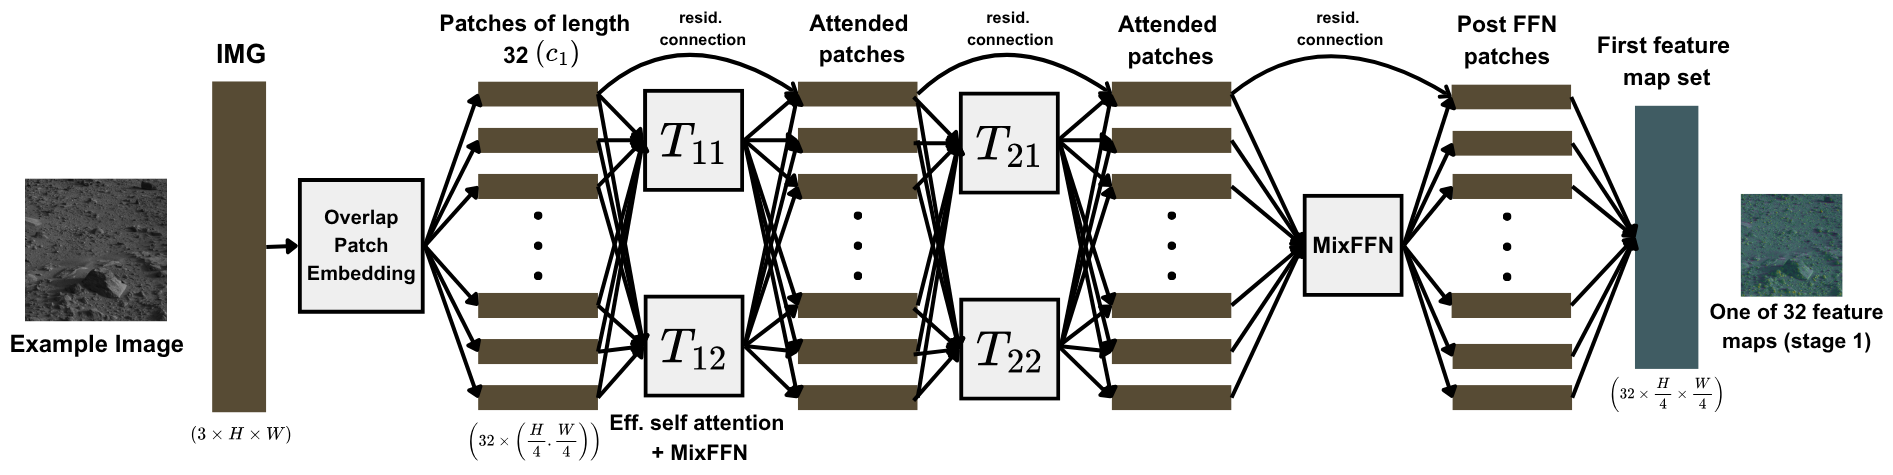
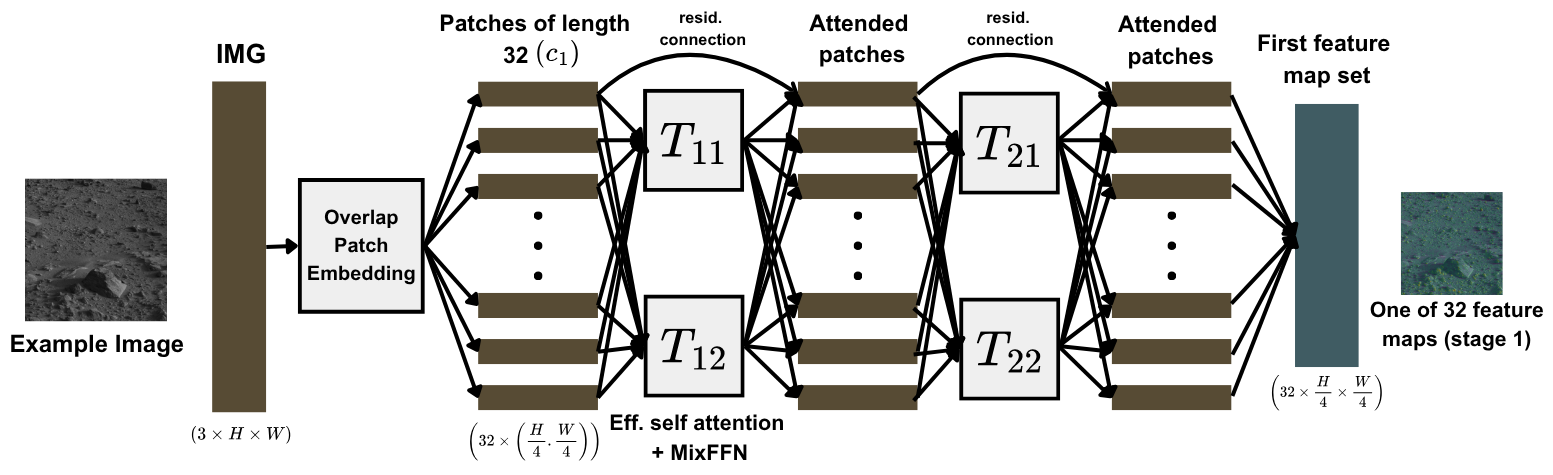
finished writing about segformer model in readme - put it in overleaf too.

diff --git a/Segformer/README.md b/Segformer/README.md
@@ -50,13 +50,17 @@ From these vectors, we use a neural network from 32 -> 32 to generate 16384 Quer
 * x_out = x + fc2( GELU( DWConv( fc1( LN(x) ) ) ) )
 * (16384, 32) -> fc1 -> (16384, 128) -> DWConv 3×3 -> (16384, 128) -> GELU -> fc2 -> (16384, 32)
 
-Implemented in `MixFFN`, the layer takes in the attended patches, expands it to a wider feature space in FC1, reshapes the patches to FM form to use a depth-wise convolution (DWConv) to allow for local context and share position information, reorders to patch form, applies GELU for non-linearity and then uses FC2 to bring the patches back to the original dimension.
+Implemented in `MixFFN`, the layer takes in the attended patches, expands it to a wider feature space in FC1, reshapes the patches to FM form to use a depth-wise convolution (`DWConv`) to allow for local context and share position information, reorders to patch form, applies GELU for non-linearity and then uses FC2 to bring the patches back to the original dimension.
 
 ### decoder.py
 
 ![Segformer decoder diagram](figures/seg_decoder.png)
 
-
+The decoder is implemented in decoder.py as `MLPDecoder`. The decoder takes in a set of 4 features and does the following operations:
+1. Unify channel dims through feeding each FM into an MLP 
+2. Upsamples the H, W dimensions to match $H/4\times W/4$ though billinear interpolation and concatenates the FMs together
+3. Fuses the FMs together using a $1\times 1$ convolution (4 -> 1).
+4. Generates a final prediction with a $1\times 1$ convolution ($C \to 5$)
 
 ## Training/Testing
 
